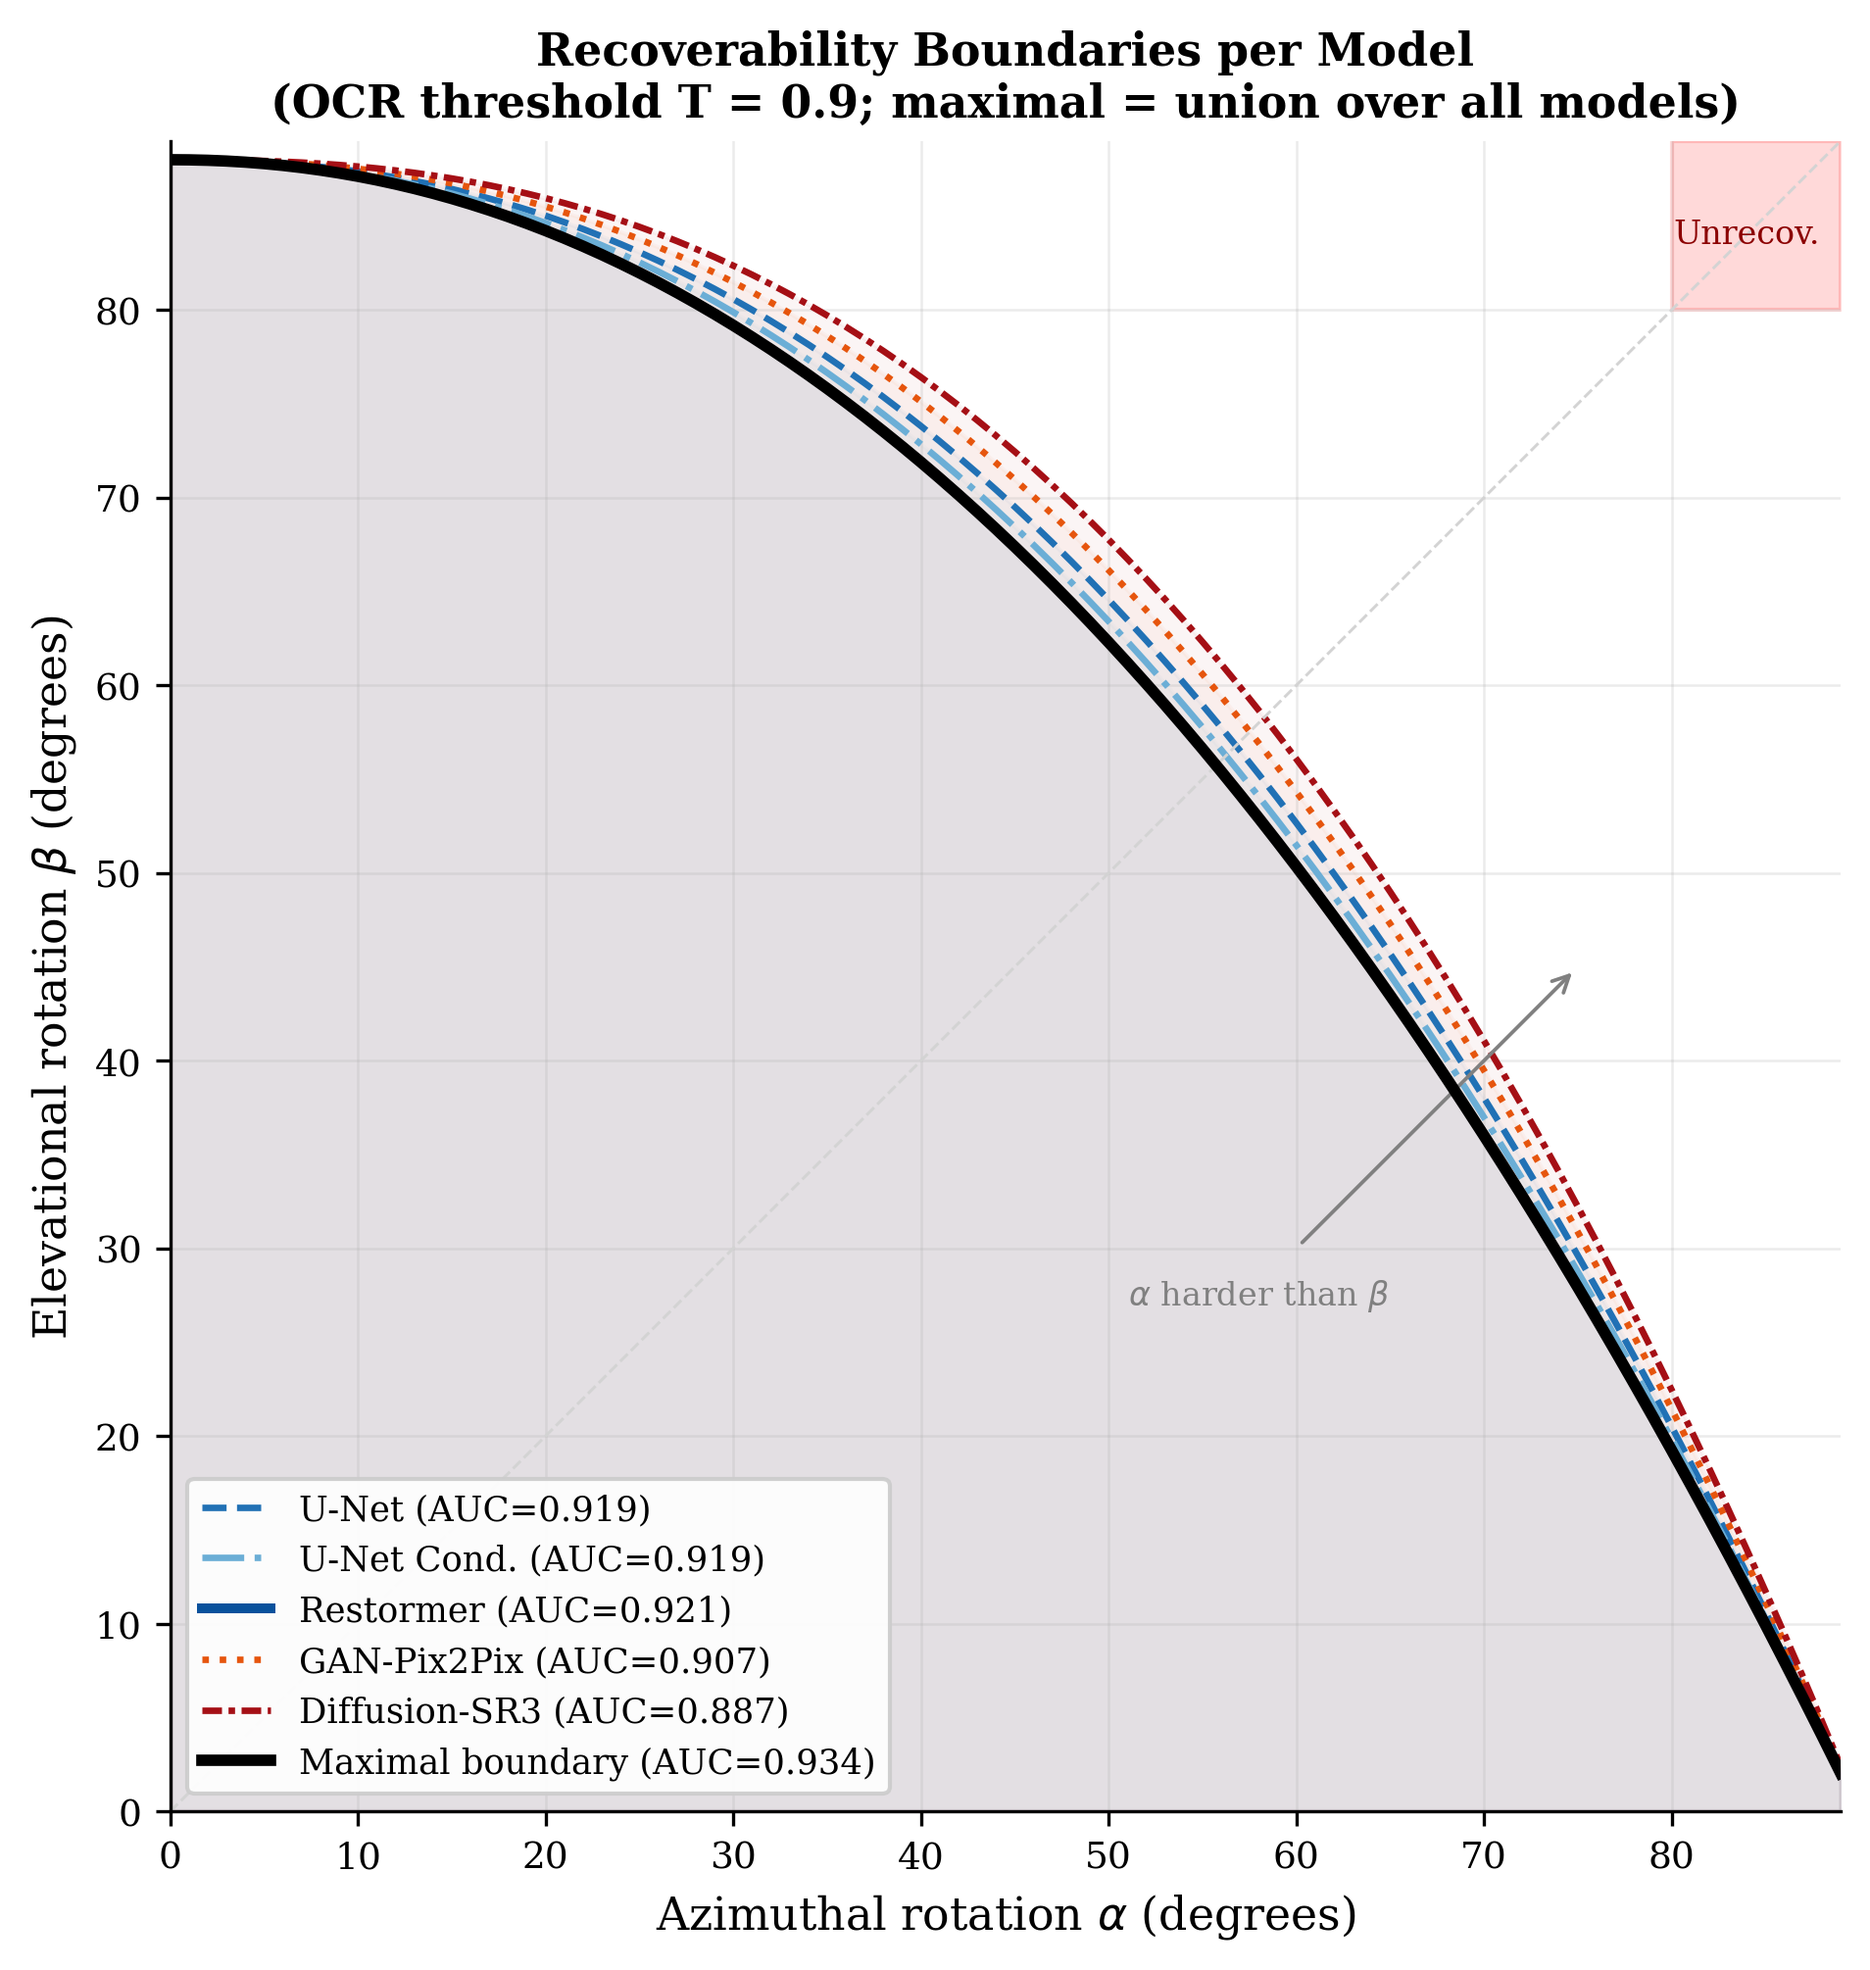
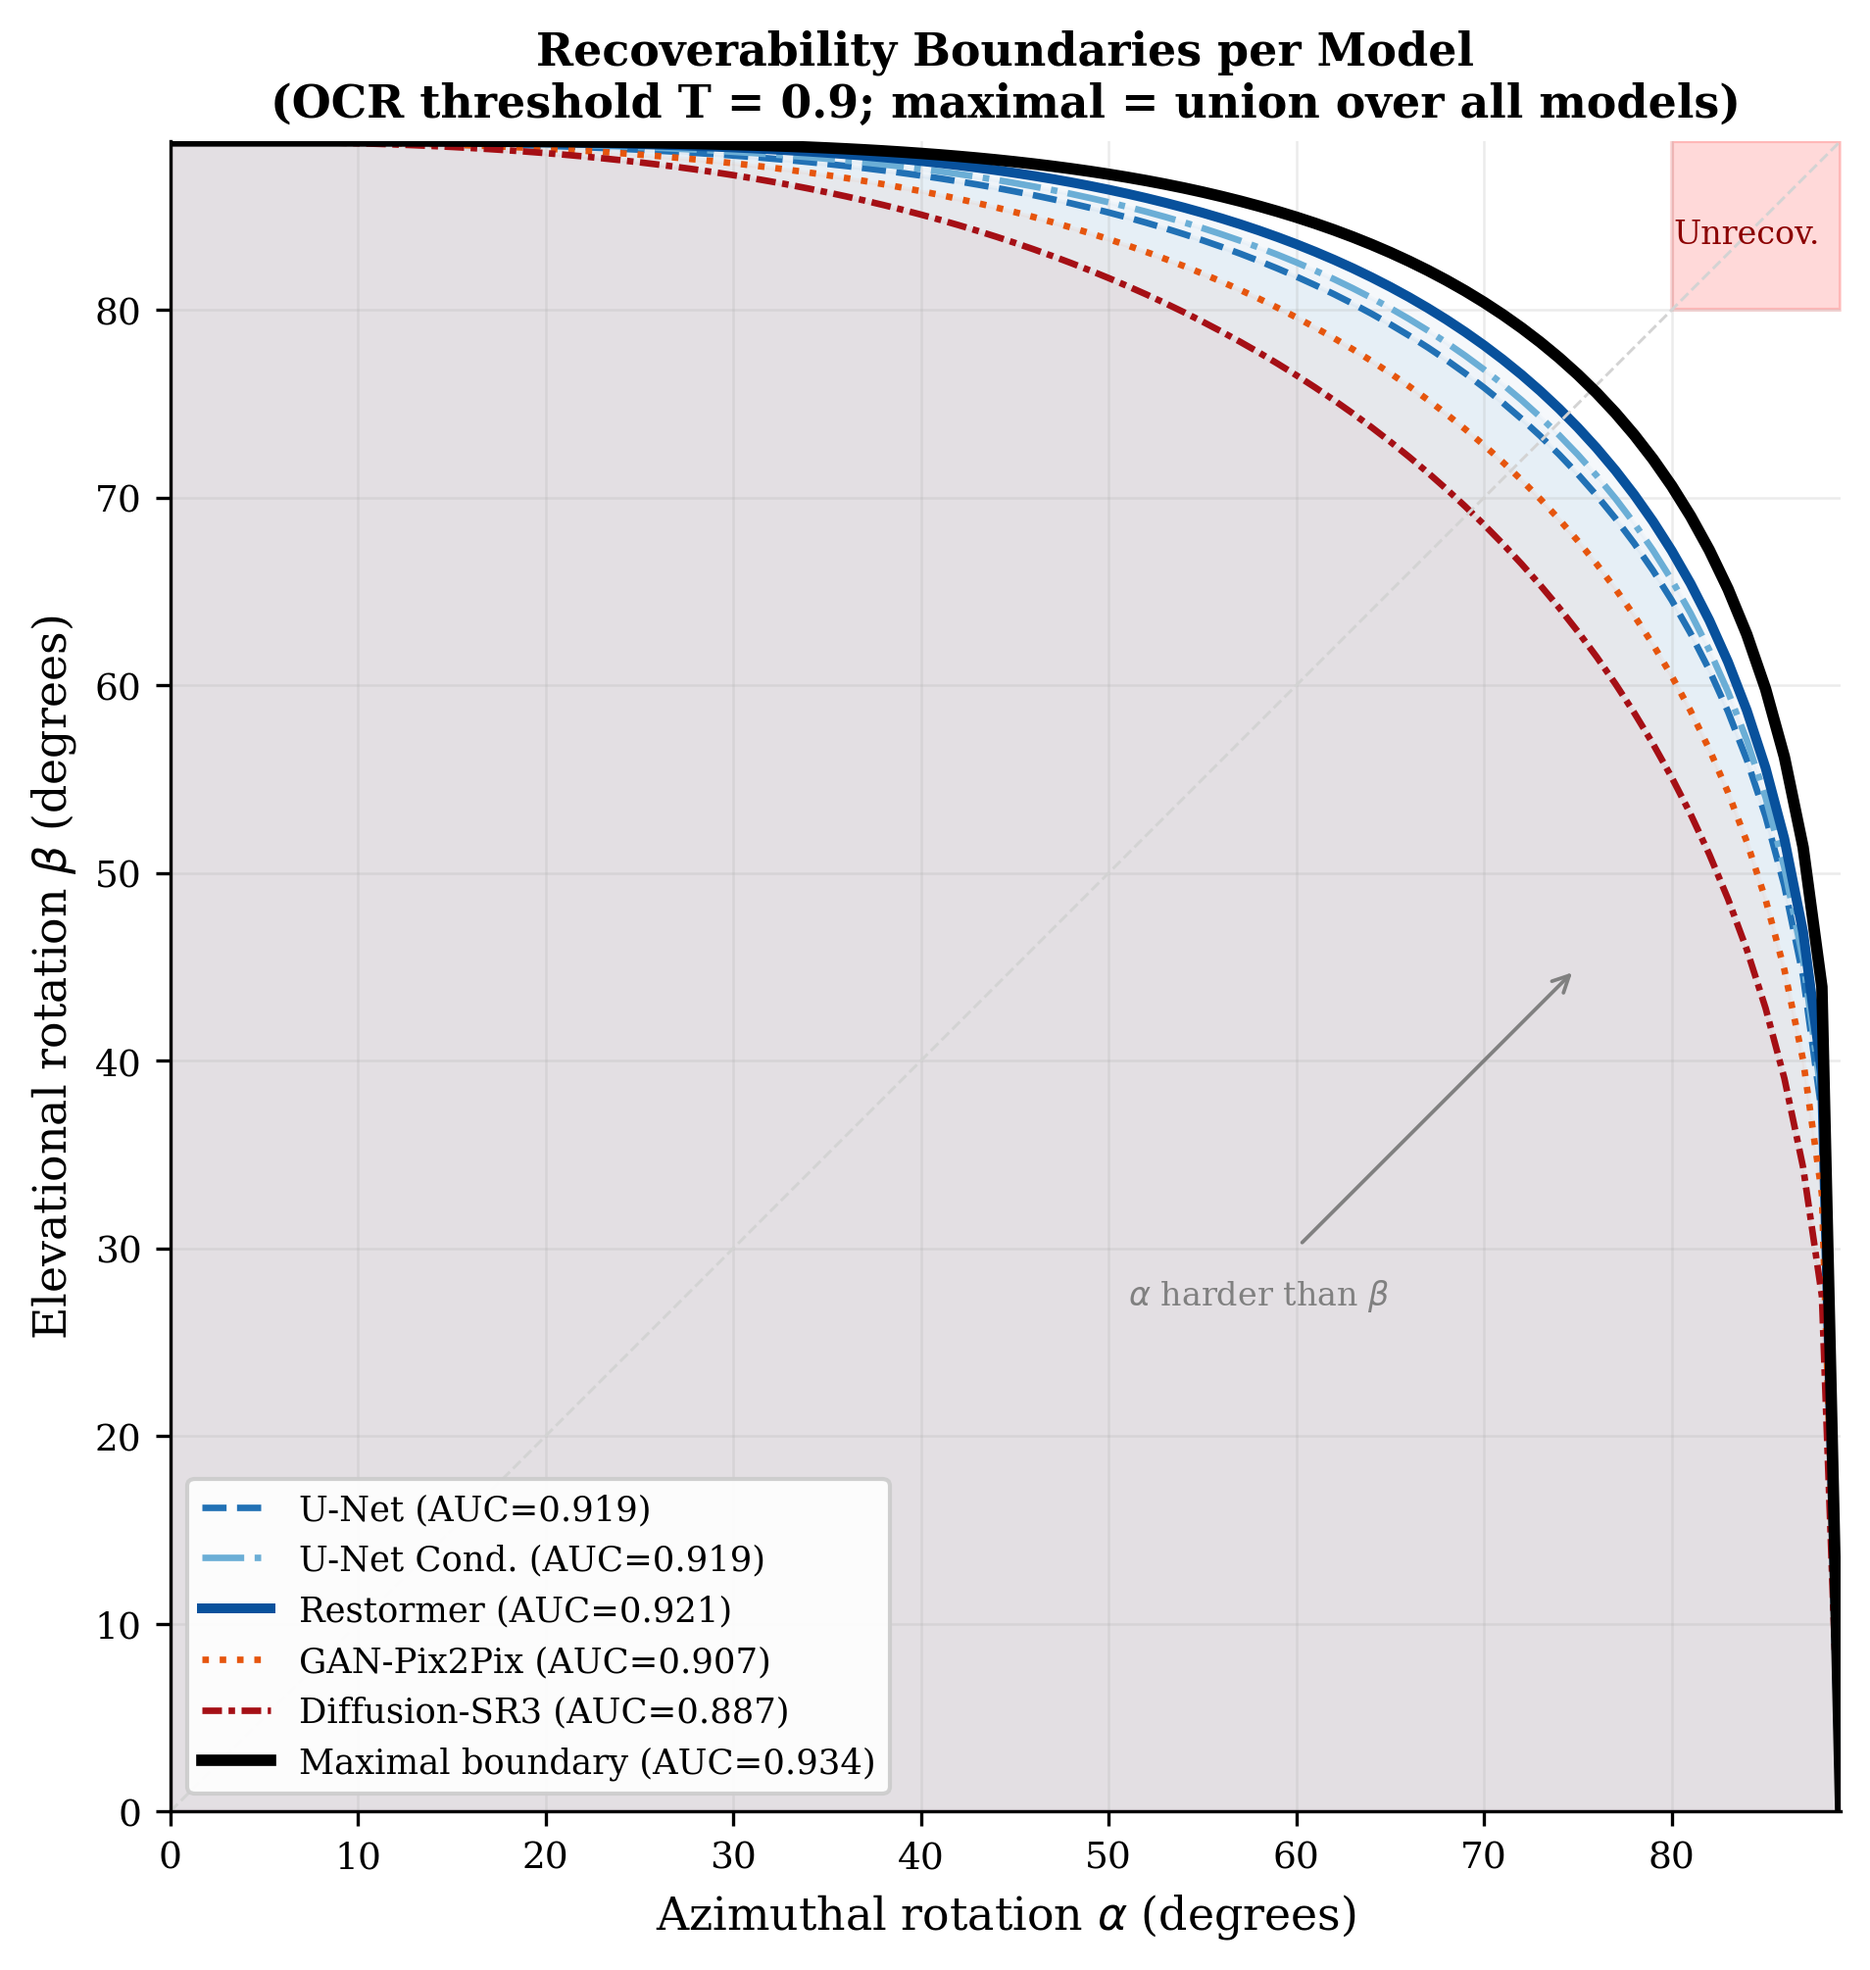
Fix Fig 5 boundary schematic: maximal curve now correctly outermost
Rewrote make_boundary() with a superellipse formulation. Prior formulation
could not reach high AUCs, causing the maximal boundary to appear inside
other curves. Now maximal (AUC=0.934) correctly encloses all per-model curves.

Changed region(s): [[0.0928, 0.0617, 0.9895, 0.8945]]

diff --git a/paper/generate_figures.py b/paper/generate_figures.py
@@ -362,25 +362,47 @@ def fig_auc_f_slopegraph():
 def fig_recoverability_schematic():
     print("Generating Fig 05: Recoverability boundary schematic...")
 
-    def make_boundary(auc, alpha_penalty=0.85):
-        alphas = np.arange(0, 90)
-        target_area = auc * 89 * 89
-        p = 1.8 / alpha_penalty
-        for k in np.linspace(88, 20, 5000):
-            beta_max = k * (1 - (alphas / 90) ** p)
-            area = np.trapezoid(np.clip(beta_max, 0, 89), alphas)
-            if area <= target_area:
-                return alphas, np.clip(beta_max, 0, 89)
-        return alphas, np.zeros_like(alphas)
+    def make_boundary(auc, alpha_anisotropy=1.0):
+        """
+        Construct a superellipse-shaped boundary whose enclosed area matches
+        auc * 89 * 89. Higher AUC -> higher exponent n -> more rectangular
+        boundary (strictly nesting outward).  alpha_anisotropy > 1 makes the
+        alpha axis decay faster than beta (the observed asymmetry).
+        """
+        alphas = np.arange(0, 90, dtype=float)
+        target_area = auc * 89.0 * 89.0
+
+        best_n, best_err = 2.0, float("inf")
+        for n in np.linspace(1.5, 20.0, 2000):
+            # Symmetric superellipse
+            inner = 1.0 - (alphas / 89.0) ** n
+            inner = np.clip(inner, 0, 1)
+            beta_max = 89.0 * inner ** (1.0 / n)
+            area = np.trapezoid(beta_max, alphas)
+            err = abs(area - target_area)
+            if err < best_err:
+                best_err, best_n = err, n
+
+        n = best_n
+        inner = 1.0 - (alphas / 89.0) ** n
+        inner = np.clip(inner, 0, 1)
+        beta_max = 89.0 * inner ** (1.0 / n)
+
+        # Apply alpha anisotropy: multiply beta by a mild decay tied to alpha
+        # so the boundary contracts faster along alpha than beta.
+        if alpha_anisotropy != 1.0:
+            decay = 1.0 - 0.10 * (alphas / 89.0) ** 2 * (alpha_anisotropy - 1.0)
+            beta_max = beta_max * decay
+        return alphas, np.clip(beta_max, 0, 89)
 
     specs = [
-        ("U-Net",         0.919, 0.80, "--",          1.6),
-        ("U-Net Cond.",   0.919, 0.83, "-.",           1.6),
-        ("Restormer",     0.921, 0.86, "-",            2.4),
-        ("GAN-Pix2Pix",  0.907, 0.76, ":",            1.6),
-        ("Diffusion-SR3", 0.887, 0.72, (0,(3,1,1,1)), 1.6),
+        ("U-Net",         0.919, 1.4, "--",           1.6),
+        ("U-Net Cond.",   0.919, 1.2, "-.",           1.6),
+        ("Restormer",     0.921, 1.0, "-",            2.4),
+        ("GAN-Pix2Pix",  0.907, 1.6, ":",            1.6),
+        ("Diffusion-SR3", 0.887, 1.8, (0,(3,1,1,1)), 1.6),
     ]
-    alphas_max, betas_max = make_boundary(0.934, 0.86)
+    alphas_max, betas_max = make_boundary(0.934, 1.0)
 
     fig, ax = plt.subplots(figsize=(6.8, 6.8))
 
